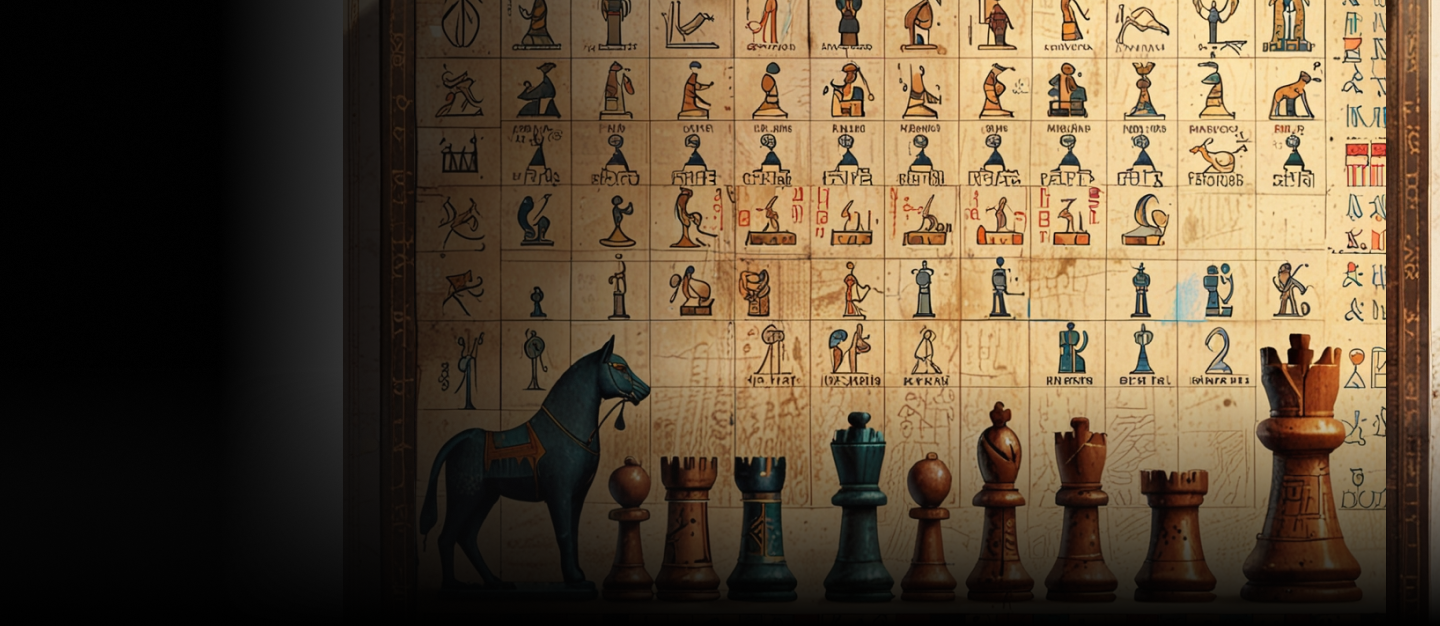
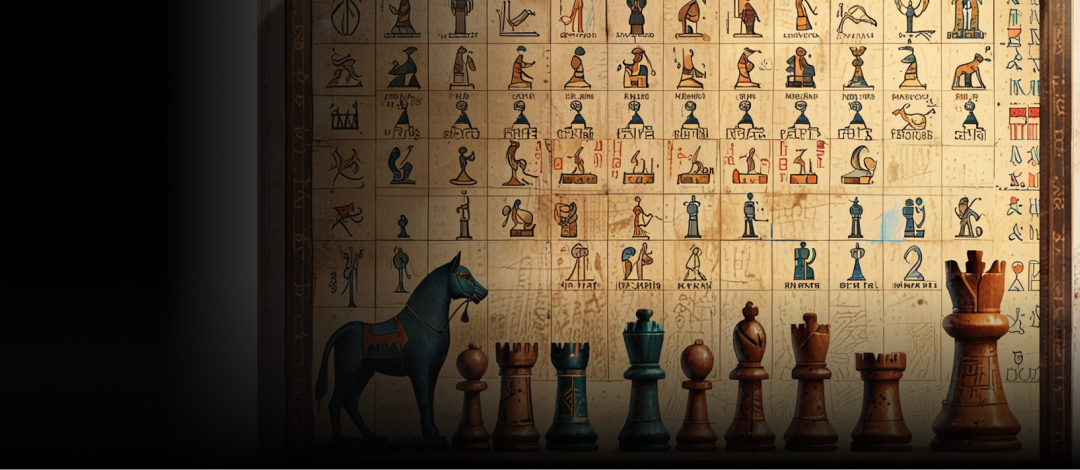
fix(about): remove animation & downsize background image

diff --git a/src/components/About/index.tsx b/src/components/About/index.tsx
@@ -6,21 +6,14 @@ const About = () => {
     >
       <div className="container">
         <div className="relative z-[1] flex justify-center h-full flex-col">
-          <h1
-            data-aos="fade-right"
-            className="font-planet text-2xl md:text-3xl md:leading-[4.625rem]"
-          >
+          <h1 className="font-planet text-2xl md:text-3xl md:leading-[4.625rem]">
             DeChess, <br /> Where{' '}
             <span className="bg-gradient-to-r from-yellow-17 to-yellow-43 bg-clip-text text-transparent">
               Brilliant
             </span>{' '}
             <br /> <span className="text-yellow-17">Moves</span> Begin
           </h1>
-          <p
-            data-aos="fade-right"
-            data-aos-duration="1500"
-            className="lg:text-normal"
-          >
+          <p className="lg:text-normal">
             Command your pieces like a Pharaoh in a <br /> game where each move
             carries the weight of an empire.
           </p>
